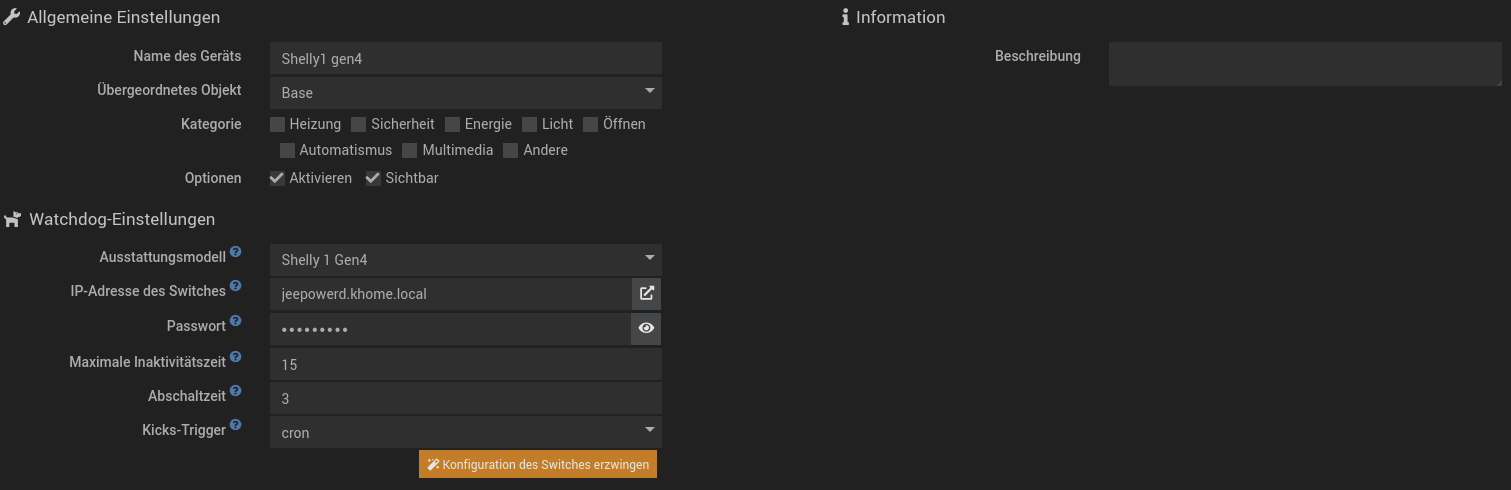
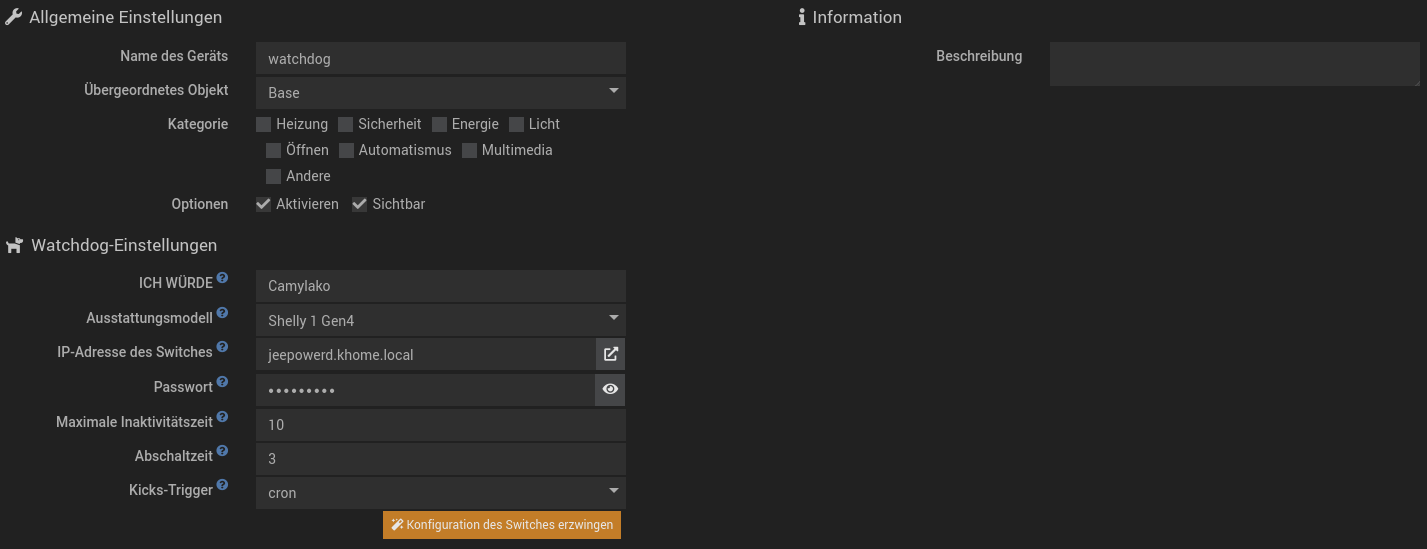
nouvelle beta pour jeewatchdog

diff --git a/plugins/jeewatchdog/fr_FR/index.md b/plugins/jeewatchdog/fr_FR/index.md
@@ -18,10 +18,14 @@ img11: 11_scenario.png
 img12: 12_declenchement_scenario.png
 
 action: action
-binary: binary
 info: info
+binary: binary
+other: other
 kick: kick
 maintenance: maintenance
+vmaintenance: vmaintenance
+vmaintenance_on: vmaintenance_on
+vmaintenance_off: vmaintenance_off
 other: other
 ---
 # Plugin {{page.plugin}} ({{page.pluginId}}) pour Jeedom
@@ -40,13 +44,14 @@ indisponibilité de Jeedom est prévue.
 
 Le plugin est prévu pour fonctionner avec les appareils suivants:
 
-+ [Shelly plus 1](https://www.shelly.com/fr/products/shelly-plus-1-x1)
++ [Shelly plus 1](https://www.shelly.com/fr/products/shelly-plus-1-x1) (sans bouton virtuel de
+maintenance)
 + [Shelly 1 Gen3](https://www.shelly.com/fr/products/shelly-1-gen3)
 + [Shelly 1 Mini Gen3](https://www.shelly.com/fr/products/shelly-1-mini-gen3)
 + [Shelly 1 Gen4](https://www.shelly.com/fr/products/shelly-1-gen4)
 + [Shelly 1 Mini Gen4 ](https://www.shelly.com/fr/products/shelly-1-mini-gen4)
 + [Shelly Power Strip 4 Gen4](https://www.shelly.com/fr/products/shelly-power-strip-4-gen4)
-(expérimental)
+(sans bouton physique de maintenance)
 
 > :bulb: Le plugin a été testé avec un **Shelly plus 1** et un **Shelly Gen4**. Tout retour
 d'expérience avec les autres appareils est le bienvenu.
@@ -155,8 +160,13 @@ configuration.
 
 {% include image.html img=page.img10 %}
 
-Outre les iparamètres standard de configuation Jeedom, quelques paramètreis spécifiques doivents
+Outre les paramètres standard de configuation Jeedom, quelques paramètreis spécifiques doivents
 être configurés:
+
++ ***Identifiant***\
+Identifiant de l'équipement qui sera utilisé pour identifieé les commposants configurés dans le
+Shelly.\
+Cet identifiant est généré automatiquement et ne peux pas être modifié.
 
 + ***Modèle d'équipement***\
 Le modèle de l'appareil Shelly.
@@ -195,7 +205,22 @@ Les deux commandes suivantes sont créées pour chaque équipement:
 1. *LogicalId*: **{{page.maintenance}}**\
 *type*: **{{page.info}}**\
 *sous-type*: **{{page.binary}}**\
-Indique la position de l'interrupteur de maintenance.
+Position de l'interrupteur physique de maintenance.
+
+1. *LogicalId*: **{{page.vmaintenance}}**\
+*type*: **{{page.info}}**\
+*sous-type*: **{{page.binary}}**\
+Position de l'interrupteur virtuel de maintenance.
+
+1. *LogicalId*: **{{page.vmaintenance_on}}**\
+*type*: **{{page.action}}**\
+*sous-type*: **{{page.other}}**\
+Commande pour activer le bouton virtuel de maintenance.
+
+1. *LogicalId*: **{{page.vmaintenance_off}}**\
+*type*: **{{page.action}}**\
+*sous-type*: **{{page.other}}**\
+Commande pour désactiver le bouton virtuel de maintenance.
 
 1. *LogicalId*: **{{page.kick}}**\
 *type*: **{{page.action}}**\
@@ -224,7 +249,7 @@ valeur du paramètre **Temps max d'inactivité**:
 {: .num}
 
 L'utilisation d'un scénario permet d'effectuer des tests pour vérifier plus précisément si jeedom
-fonctionne correctement avec d'envoyer un kick.
+fonctionne correctement avant d'envoyer un kick.
 
 Voici un exemple de scénarion qui n'enverra un kick que si un équipement zigbee a pu être activé:
 
@@ -235,6 +260,21 @@ démarrage de Jeedom.
 
 {% include image.html img=page.img12 %}
 
-<!--
-vim: textwidth=100 colorcolumn=101
--->
+# Le mode maintenance
+
+Lorsqu'il est en mode maintenance, le Shelly ne coupe pas l'alimentation du serveur Jeedom s'il ne
+donne pas de signe de vie.
+
+iSelon le modèle,  le shelly est configuré avec un bouton de maintenant physique et/ou un bouton de
+maintenance virtuel.
+
+## Le bouton de maintenance physique
+
+L'interrupteur de maintenance doit être connecté à la borne `SW` du Shelly.
+
+L'état de l'interrupteur est directement pris en compte par le script chargé dans le Shelly. Les
+changement d'état de l'interrupteur est donc pris en compte même si Jeedom est arrêté.
+
+La commande *maintenance* permet de connaître la position de l'interrupteur.
+
+## Le bouton de maintenance virtuel

diff --git a/plugins/jeewatchdog/fr_FR/changelog.md b/plugins/jeewatchdog/fr_FR/changelog.md
@@ -7,6 +7,10 @@ lang: fr_FR
 
 # Release notes
 
+### Prochaine BETA
++ Correction d'un bug mineur lorsqu'un kick est exécuté pendant le réécriture de script dans le Shelly
++ La commande info "maintenance" est renommée "maintenance(physique)"
+
 ### 01/10/2026 bis BETA
 + Correction d'un bug qui bloquait la création d'un équipement
 
